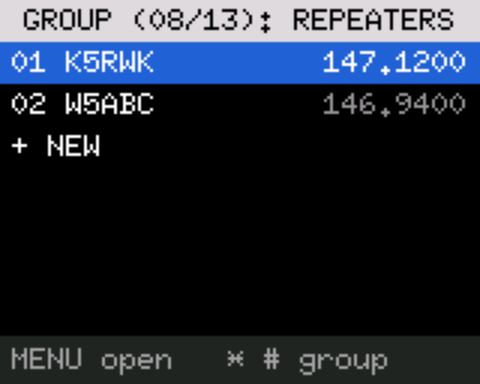
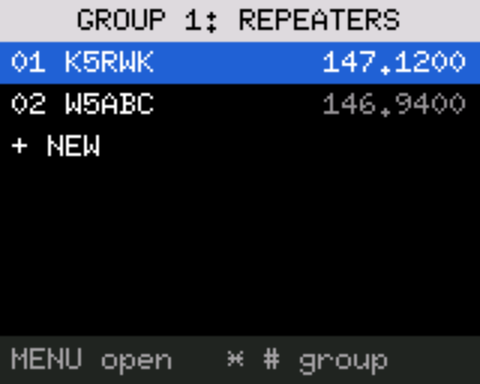
Channel groups in ham priority order, numbered, with digit selection; SIMPLEX and SATELLITES groups and lists; AUDIT 36
- BAND then a digit selects the group (1 REPEATERS, 2 SIMPLEX, 3 GMRS, 4 FRS, 5 MURS, 6 SATELLITES, 0 ALL)
- channels/simplex.csv and channels/satellites.csv; channel_plan.py honours CHIRP split (uplink in Offset)
- CHAN MGR title is 'GROUP 1: REPEATERS'

Changed region(s): [[0.0312, 0.0, 0.7188, 0.0938], [0.75, 0.0, 0.9688, 0.0938]]

diff --git a/firmware/firmware-source/src/app/group_table.rs b/firmware/firmware-source/src/app/group_table.rs
@@ -12,18 +12,22 @@ pub(crate) struct ChanMode {
 /// Every slot: printed numbers 1..=1000.
 pub(crate) const ALL: &[(u16, u16)] = &[(1, 1000)];
 
-pub(crate) const MODES: [ChanMode; 13] = [
+/// In order of use to a ham. The index is the group's number: BAND then that digit selects it (0 = ALL; groups past 9
+/// have no digit). Slot ranges are the upstream channel plan's, plus 351-380 and 381-410 for the two new groups.
+pub(crate) const MODES: [ChanMode; 15] = [
     ChanMode { name: "ALL", short: "ALL", ranges: ALL },
+    ChanMode { name: "REPEATERS", short: "RPT", ranges: &[(234, 304), (327, 344)] },
+    ChanMode { name: "SIMPLEX", short: "SMPLX", ranges: &[(351, 380)] },
+    ChanMode { name: "GMRS", short: "GMRS", ranges: &[(305, 344)] },
+    ChanMode { name: "FRS", short: "FRS", ranges: &[(305, 326)] },
+    ChanMode { name: "MURS", short: "MURS", ranges: &[(345, 349)] },
+    ChanMode { name: "SATELLITES", short: "SAT", ranges: &[(381, 410)] },
     ChanMode { name: "WEATHER", short: "WX", ranges: &[(1, 7)] },
+    ChanMode { name: "AIR TRAFFIC", short: "AIR", ranges: &[(168, 233)] },
+    ChanMode { name: "RAILROAD", short: "RAIL", ranges: &[(158, 167)] },
     ChanMode { name: "POLICE FIRE EMS", short: "PD/FD", ranges: &[(14, 105)] },
     ChanMode { name: "FED & GOV", short: "FED", ranges: &[(106, 146)] },
     ChanMode { name: "UTILITIES", short: "UTIL", ranges: &[(147, 157)] },
-    ChanMode { name: "RAILROAD", short: "RAIL", ranges: &[(158, 167)] },
-    ChanMode { name: "AIR TRAFFIC", short: "AIR", ranges: &[(168, 233)] },
-    ChanMode { name: "REPEATERS", short: "RPT", ranges: &[(234, 304), (327, 344)] },
-    ChanMode { name: "FRS", short: "FRS", ranges: &[(305, 326)] },
-    ChanMode { name: "GMRS", short: "GMRS", ranges: &[(305, 344)] },
-    ChanMode { name: "MURS", short: "MURS", ranges: &[(345, 349)] },
     ChanMode { name: "FRS GMRS MURS", short: "F/G/M", ranges: &[(305, 349)] },
     // Channel list stays open here; the scan itself sweeps the typed range.
     ChanMode { name: "CUSTOM RANGE", short: "RANGE", ranges: ALL },
@@ -107,12 +111,15 @@ mod tests {
 
     #[test]
     fn position_in_a_group_counts_from_one_across_its_ranges() {
-        assert_eq!(group_pos(7, 233), Some(1)); // REPEATERS: printed 234 is its first channel
-        assert_eq!(group_pos(7, 303), Some(71)); // printed 304, last of the first range
-        assert_eq!(group_pos(7, 326), Some(72)); // printed 327, first of the second range
-        assert_eq!(group_pos(7, 0), None);
+        assert_eq!(MODES[1].name, "REPEATERS");
+        assert_eq!(group_pos(1, 233), Some(1)); // REPEATERS: printed 234 is its first channel
+        assert_eq!(group_pos(1, 303), Some(71)); // printed 304, last of the first range
+        assert_eq!(group_pos(1, 326), Some(72)); // printed 327, first of the second range
+        assert_eq!(group_pos(1, 0), None);
         assert_eq!(group_pos(0, 233), Some(234)); // ALL: the printed number
-        assert_eq!(group_pos(1, 0), Some(1)); // WEATHER
+        assert_eq!(group_pos(7, 0), Some(1)); // WEATHER
+        assert_eq!(group_pos(2, 350), Some(1)); // SIMPLEX starts at printed 351
+        assert_eq!(group_pos(6, 380), Some(1)); // SATELLITES starts at printed 381
     }
 
     #[test]
@@ -125,7 +132,7 @@ mod tests {
             }
             assert_eq!(group_slot(mode, 0), None);
         }
-        assert_eq!(group_slot(7, 90), None); // REPEATERS has 89 slots
+        assert_eq!(group_slot(1, 90), None); // REPEATERS has 89 slots
     }
 
     #[test]

diff --git a/firmware/source-changes/channel_plan.py b/firmware/source-changes/channel_plan.py
@@ -27,8 +27,8 @@ a message and write nothing. (CUSTOM RANGE has no slots of its own and cannot be
 
 Record rules are mirrored from firmware/UV-5RM_Channel_Uploader.html (the upstream uploader); [U:x] = its function x.
   layout        32 bytes, 0xFF filled; RX freq BCD LE in 10 Hz units at 0; TX at 4                       [U:encode, bcdBytes, to10Hz]
-  receive-only  Duplex "off": TX bytes stay 0xFF. Duplex "+"/"-": TX = RX +/- Offset. Anything else ("" or CHIRP "split"):
-                TX = RX (simplex; split is NOT honoured, a warning says so)                              [U:encode]
+  receive-only  Duplex "off": TX bytes stay 0xFF. Duplex "+"/"-": TX = RX +/- Offset. Anything else: TX = RX   [U:encode]
+                Extra here: Duplex "split" transmits on the frequency in Offset (CHIRP's convention), for satellites.
   tones         Tone=Tone: rx code 0, tx code = round(rToneFreq*10). TSQL: both = round(cToneFreq*10) (tenths of Hz).
                 DTCS: code = index in the 105-entry DCS_CODES list (1-based) + 105 when polarity is R; DtcsPolarity "ab":
                 a applies to TX (DtcsCode), b to RX (RxDtcsCode, default DtcsCode). Any other Tone value (Cross, DTCS-R,
@@ -201,10 +201,15 @@ def encode(row):
         if not (0 < off <= 100):                                    # [U:validate]
             raise PlanError(f"offset '{g('Offset')}' must be above 0 and at most 100 MHz")
         tx = rx + to10hz(g("Offset", "0")) if duplex == "+" else rx - to10hz(g("Offset", "0"))
+    elif duplex == "split":
+        # CHIRP's convention: Offset holds the transmit frequency itself (cross-band satellites: listen on 70 cm,
+        # transmit on 2 m). Not in the upstream uploader; the channel record has always had a separate TX field.
+        txmhz = num(g("Offset", "0"), "split TX frequency")
+        if not ((16 <= txmhz <= 560) or (740 <= txmhz <= 1120)):
+            raise PlanError(f"split TX frequency {g('Offset')} MHz is outside 16-560 and 740-1120 MHz")
+        tx = to10hz(g("Offset", "0"))
     elif duplex != "off":
         tx = rx
-        if duplex == "split":
-            warns.append("split duplex not supported: simplex")
     if max(rx, tx or 0) > 99999999 or (tx is not None and tx <= 0):
         raise PlanError("a frequency of 1000 MHz or more (or a TX below 0) does not fit the 8-digit BCD field")
     rxc = txc = 0

diff --git a/firmware/tests/test_channel_plan.py b/firmware/tests/test_channel_plan.py
@@ -108,8 +108,19 @@ class Encoding(unittest.TestCase):
     def test_warnings(self):
         self.assertTrue(any("transmit plan" in w for w in cp.decode(self.enc(freq="162.4"))["warns"]))
         self.assertEqual(cp.decode(self.enc(freq="146.52"))["warns"], [])
-        self.assertTrue(cp.encode(row(duplex="split"))[1])
         self.assertTrue(cp.encode(row(tone="Cross"))[1])
+
+    def test_split_transmits_on_the_offset_frequency(self):
+        """A satellite: listen on 437.800, transmit on 145.990 with a 67.0 Hz tone (CHIRP's split convention)."""
+        rec, warns = cp.encode(row("ISS", "437.800", duplex="split", off="145.990", tone="Tone", r="67.0"))
+        d = cp.decode(rec)
+        self.assertEqual(rec[0:4], bytes.fromhex("00007843"))            # 43780000 x 10 Hz, BCD, little-endian
+        self.assertEqual(rec[4:8], bytes.fromhex("00905914"))            # 14599000 x 10 Hz
+        self.assertEqual(int.from_bytes(rec[10:12], "little"), 670)      # TX tone 67.0 Hz
+        self.assertEqual(int.from_bytes(rec[8:10], "little"), 0)         # no RX tone
+        self.assertEqual(d["name"], "ISS")
+        with self.assertRaises(cp.PlanError):
+            cp.encode(row(duplex="split", off="0"))
 
     def test_encode_errors(self):
         bad = [row(name="THIRTEEN CHARS"), row(name="café"), row(freq="abc"), row(freq=""), row(freq="5"), row(freq="600"),
@@ -136,7 +147,9 @@ class Groups(unittest.TestCase):
         self.assertEqual(g["ALL"][2], [(1, 1000)])
         self.assertEqual(g["CUSTOM RANGE"][2], [(1, 1000)])
         self.assertEqual(g["FED & GOV"][1], "FED")
-        self.assertEqual(len(g), 13)
+        self.assertEqual(g["SIMPLEX"][2], [(351, 380)])
+        self.assertEqual(g["SATELLITES"][1:], ("SAT", [(381, 410)]))
+        self.assertEqual(len(g), 15)
 
     def test_unparseable_table_fails_clearly(self):
         with tempfile.TemporaryDirectory() as d:

diff --git a/firmware/firmware-source/apps/chanmgr/src/main.rs b/firmware/firmware-source/apps/chanmgr/src/main.rs
@@ -968,41 +968,16 @@ fn dismiss_toast(api: &Api, state: &mut State) {
     }
 }
 
-/// "GROUP (08/13): REPEATERS"; without the position when that is too long for the row; then the name cut with "...".
+/// "GROUP 1: REPEATERS": the number is the digit that selects the group from the BAND menu.
 fn group_title(api: &Api, out: &mut [u8; TITLE_LEN]) {
-    let (group, count) = unsafe {
-        let st = &*core::ptr::addr_of!(STATE);
-        (st.group, st.group_count)
-    };
-    let mut name = [0u8; GROUP_NAME_MAX];
-    let n = (api.group_name)(group, name.as_mut_ptr(), GROUP_NAME_MAX as u16) as usize;
-    let name = &name[..n.min(GROUP_NAME_MAX)];
+    let group = shown_group();
     *out = [0; TITLE_LEN];
-    let mut i = 0;
-    let mut put = |bytes: &[u8], i: &mut usize| {
-        for &b in bytes {
-            if *i < TITLE_LEN {
-                out[*i] = b;
-                *i += 1;
-            }
-        }
-    };
-    let two = |v: u8| [b'0' + (v / 10) % 10, b'0' + v % 10];
-    if 15 + name.len() <= TITLE_LEN {
-        put(b"GROUP (", &mut i);
-        put(&two(group + 1), &mut i);
-        put(b"/", &mut i);
-        put(&two(count), &mut i);
-        put(b"): ", &mut i);
-        put(name, &mut i);
-    } else if 7 + name.len() <= TITLE_LEN {
-        put(b"GROUP: ", &mut i);
-        put(name, &mut i);
-    } else {
-        put(b"GROUP: ", &mut i);
-        put(&name[..TITLE_LEN - 10], &mut i);
-        put(b"...", &mut i);
-    }
+    out[..6].copy_from_slice(b"GROUP ");
+    let mut i = 6 + (api.fmt_u32)(group as u32, out[6..].as_mut_ptr()) as usize;
+    out[i] = b':';
+    out[i + 1] = b' ';
+    i += 2;
+    (api.group_name)(group, out[i..].as_mut_ptr(), (TITLE_LEN - i) as u16);
 }
 
 #[cfg_attr(target_os = "none", no_mangle)]

diff --git a/firmware/firmware-source/src/ui/modes.rs b/firmware/firmware-source/src/ui/modes.rs
@@ -29,11 +29,14 @@ impl<'a, 'b> ListSource for ModeSource<'a, 'b> {
     }
 
     fn label(&mut self, index: usize, w: &mut dyn crate::fmtlite::Sink) {
+        // the number is the digit that selects the group from this menu
+        w.put_u32(index as u32);
+        w.put_char(' ');
         w.put_str(modes_table()[index].name);
     }
 
     fn hint(&mut self, w: &mut dyn crate::fmtlite::Sink) {
-        w.put_str("MENU use     EXIT back");
+        w.put_str("MENU or 0-9 use  EXIT back");
     }
 
     fn value(&mut self, index: usize, w: &mut dyn crate::fmtlite::Sink) -> bool {

diff --git a/firmware/firmware-source/src/app/modes.rs b/firmware/firmware-source/src/app/modes.rs
@@ -149,6 +149,12 @@ pub(super) fn dispatch_menu(app: &mut App, syst: &mut SYST, ev: KeyEvent) {
             app.mode = Mode::Standby;
             app.reset_key_idle();
         }
+        // BAND then a digit: the group with that number (1 = REPEATERS, 0 = ALL)
+        (KeyEventKind::Single, key) => {
+            if let Some(d) = digit_value(key) {
+                select(app, syst, d as usize, false);
+            }
+        }
         _ => {}
     }
 }

diff --git a/AUDIT.md b/AUDIT.md
@@ -54,4 +54,5 @@ Tools: `firmware/tools/verify_release.py` (offline release gate), `.github/workf
 | 33 | **Channel detail text (a location or description per channel) on the main screen; built, not yet on the radio.** The 12-byte channel name stays in the channel record (the format CHIRP and stock share). A new **channel extras table** holds 20 bytes per channel at 0x1E0000 in the data region (16 of text, 2 reserved for group tags, 1 reserved, a mark byte so unwritten flash shows nothing). `channel_plan.py build` writes it from the `Detail` column as `OUT.extras`; `channel_extras.py` installs it through a new port command `X` (same chunked framing as the satellite table, which now shares one handler) with a full readback; the fake radio and tests cover it. In memory mode the main screen shows the text on the channel-number row, right-aligned (for example `M234      Richardson`), except when CH DISPLAY is FREQUENCY, where that spot already shows the name. The text is kept in `App`, which lives on the main stack, so the firmware's pinned RAM below the app arena did not grow (checked: the arena is still at 0x200001D0). | Open: unseen until flashed (the main screen has no simulator coverage); 0x1E0000 was chosen from the source's map of the data region (satellite table at its start, TEXT log at 0x1F0000), not from a dump of that area on this radio; group tags are reserved in the record but unused |
 | 34 | **Channel numbers are positions in the current group; VFO scans stay in their band (built, not yet on the radio).** A channel is shown by its place in the group, at least two digits: K5RWK in slot 233 is `01` of REPEATERS (in ALL it is still the printed number, `234`). One function (`group_table::group_pos`, with its inverse `group_slot`, unit-tested for every group and slot) feeds the main screen, the scan header, the typed channel number in memory mode, and CHAN MGR through a new ABI call `chan_group_pos`. The main screen no longer prefixes `M`: the group is named in the status bar and the accent colour says memory. Scanning from the VFO used to sweep the synthesizer's whole 16-560 MHz; it now sweeps the band the frequency is in (2 m, 1.25 m, 70 cm, MURS, marine, NOAA, FRS/GMRS, air, FM broadcast; otherwise the megahertz it is in). Memory-mode scan and channel up/down were already limited to the current group. Also built for the next flash: digit keys in the APPS list, the channel detail text (row 33). | Open: unseen until flashed. Positions follow slot numbers, so a deleted channel leaves a gap in the numbering (`01, 02, 04`); the scan screen does not say which band it is sweeping; CHAN MGR is at its memory limit again and gains nothing more before it is split |
 | 35 | **Fourth flash (`7c9ea33`) and the owner's findings on the radio (2026-11-11).** Flash, calibration check (identical), nine apps, the channel extras table (the area was all 0xFF beforehand, so the chosen address was free) and the boot screen all verified. Owner's findings: (1) scanning used its own, different screen, with a header he read as `REPEATERS IN` when scanning down (it said `DN`); (2) the status bar showed the channel group in VFO mode, where it means nothing; (3) an app opened by a long-press returned to the APPS list on EXIT, not to the main screen. **Changes (built, not yet on the radio):** scanning is shown on the main screen, with `SCAN UP` / `SCAN DN` in the status bar, and the separate scan screen is removed; in VFO mode the status tag is the band (`2M`, `70CM`, `WX`, ...) or nothing; an app returns to where it was opened from (the APPS list, or the main screen when a key opened it). No app interface change, so the installed apps stay. | Open: unseen until flashed; while scanning there is no on-screen key hint (UP/DOWN change direction, EXIT stops) |
+| 36 | **Channel groups reordered by use to a ham and numbered; SIMPLEX and SATELLITES added (built, not yet on the radio).** Order: 0 ALL, 1 REPEATERS, 2 SIMPLEX, 3 GMRS, 4 FRS, 5 MURS, 6 SATELLITES, 7 WEATHER, 8 AIR TRAFFIC, 9 RAILROAD, then POLICE FIRE EMS, FED & GOV, UTILITIES, FRS GMRS MURS, CUSTOM RANGE. The group menu numbers its rows and BAND then a digit selects the group; CHAN MGR's title is `GROUP 1: REPEATERS`. New slot ranges 351-380 (SIMPLEX) and 381-410 (SATELLITES); the others are unchanged, so channels already on the radio keep their groups. The stored group index changes meaning (the radio was on REPEATERS = old 7, which is now WEATHER): pick the group again once. `channels/simplex.csv`: the national FM calling frequencies (146.520, 223.500, 446.000), the ARRL band-plan 2 m simplex channels, and 144.390 APRS receive-only; the two calling channels moved out of `repeaters.csv`. `channels/satellites.csv`: ISS repeater, SO-50 (with its 74.4 Hz arming channel) and AO-123, five Doppler steps each on the 70 cm side, plus ISS packet and crew downlink (receive-only), AO-91 and PO-101; frequencies and tones from AMSAT's FM satellite summary (page dated 2026-10-31). `channel_plan.py` now honours CHIRP `split` (Offset = transmit frequency), needed for cross-band satellites. 114 channels build. | Open: unseen on the radio; satellite status changes (AO-91 sunlit only, PO-101 by schedule and failing, per AMSAT) and nothing here has been tried on a pass; the open firmware's handling of a channel whose TX is on another band is untested on hardware; 2 m simplex channel spacing varies by region |
 

diff --git a/channels/README.md b/channels/README.md
@@ -8,11 +8,14 @@ Nothing here has been written to a real radio yet; the whole path is tested only
   `frs.csv`, `pd-fd.csv`, ... Channels fill that group's slots in file order. The `Location` column is ignored.
   `all.csv` is the exception: channels go to their own `Location` (1-1000).
 - Groups overlap, so each file uses only its group's own slots: weather 1-7, repeaters 234-304, frs 305-326,
-  gmrs 327-344 (repeater pairs), murs 345-349.
-- `weather.csv`, `frs.csv` and `murs.csv` are the standard US lists and are the same everywhere. `repeaters.csv` (ham)
-  and `gmrs.csv` (GMRS repeaters, with their tones) are local to the Dallas area. This radio is not certified for FRS,
-  GMRS or MURS: those lists are for listening unless you know your licence and the rules allow it; the radio's TX BANDS
-  and TX INHIBIT settings decide what it will transmit on.
+  gmrs 327-344, murs 345-349, simplex 351-380, satellites 381-410.
+- `weather.csv`, `frs.csv`, `murs.csv` and `simplex.csv` (national calling frequencies and the 2 m simplex channels) are
+  the same everywhere in the US. `repeaters.csv` (ham) and `gmrs.csv` (GMRS repeaters, with their tones) are local to
+  the Dallas area. `satellites.csv` holds the FM satellites a handheld can work, from AMSAT's FM satellite summary
+  (2026-10-31): check AMSAT's status page before a pass, because satellites come and go. Each cross-band satellite has
+  five channels, AOS to LOS, stepping the 70 cm frequency for Doppler; `Duplex` is `split` and `Offset` is the uplink.
+- This radio is not certified for FRS, GMRS or MURS: those lists are for listening unless you know your licence and the
+  rules allow it; the radio's TX BANDS and TX INHIBIT settings decide what it will transmit on.
 - `Detail` (location or description, at most 16 ASCII characters) goes into a second file, `OUT.extras`, which the main
   screen shows beside the channel number in memory mode. Install it with `channel_extras.py PORT build-out/channels.extras`.
 - Required columns: `Name`, `Frequency`; the rest of the CHIRP columns are optional (see the docstring for the rules).
